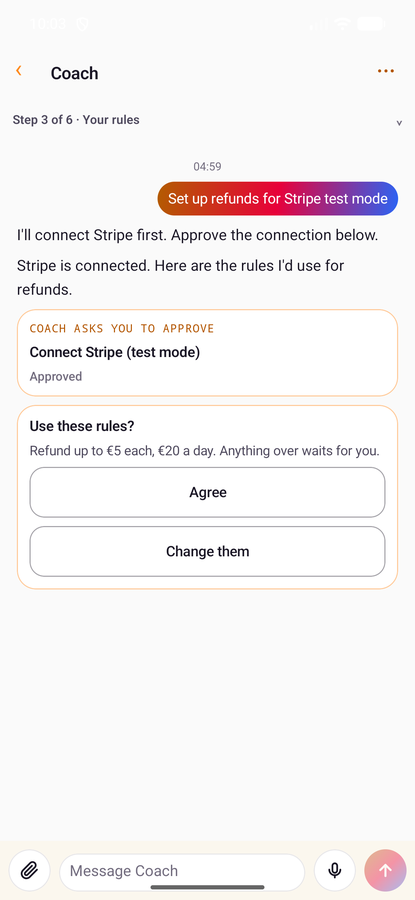
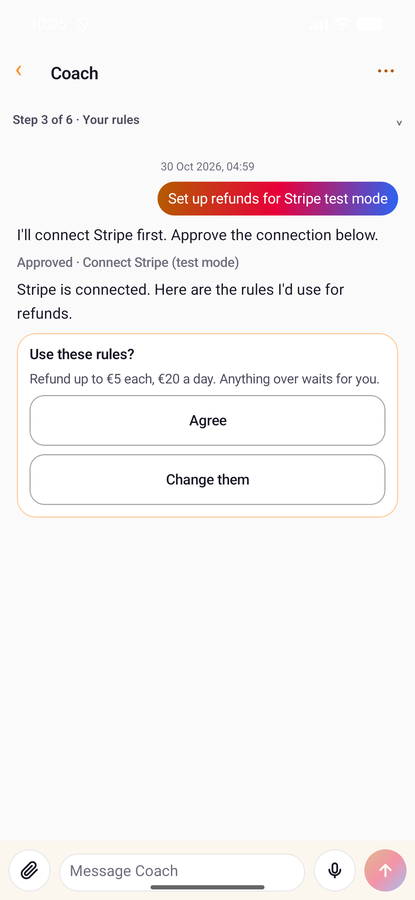
Android: an answered Coach card says what it was, at its own time
The owner's report on Coach's chat, phone check on v11:
- An answered approval read only "Approved" under "Coach asks you to
  approve": four in a row said nothing about what was approved. It now
  keeps one line, "Approved · Connect Stripe": Coach's title for the
  card, else planque's words for the connection, else the draft's Card,
  else its service.
- Answered cards sat below Coach's reply, not where they happened. A
  card waiting for the owner still comes after what Coach wrote with it;
  once answered, it goes back to its own time in the thread.

diff --git a/android/app/src/test/kotlin/bot/tafs/app/CoachTest.kt b/android/app/src/test/kotlin/bot/tafs/app/CoachTest.kt
@@ -61,8 +61,8 @@ class CoachTest {
   private fun msg(from: String, text: String, at: String, session: String = "s1") =
     """{"at":"$at","from":"$from","text":${kotlinx.serialization.json.JsonPrimitive(text)},"session":"$session"}"""
 
-  private fun shown(component: String, at: String, session: String = "s1", run: String = "r1") =
-    """{"at":"$at","session":"$session","run":"$run","component":$component}"""
+  private fun shown(component: String, at: String, session: String = "s1", run: String = "r1", answer: String? = null) =
+    """{"at":"$at","session":"$session","run":"$run","component":$component${answer?.let { ""","answer":$it""" } ?: ""}}"""
 
   private fun thread(messages: List<String>, components: List<String> = emptyList()) =
     """{"messages":[${messages.joinToString(",")}],"components":[${components.joinToString(",")}]}"""
@@ -195,6 +195,28 @@ class CoachTest {
     ))
     val kinds = m.state.value.chatItems(COACH_CHAT).map { if (it is ChatItem.Card) "card" else (it as ChatItem.Message).message.text }
     assertEquals(listOf("hello", "Which limit?", "card"), kinds)
+  }
+
+  @Test fun anAnsweredCardGoesBackToItsOwnTimeInLine() = runTest {
+    // The same card, answered: it sits where it happened, before what Coach wrote after it, not under the reply.
+    val m = coach(thread(
+      listOf(msg("taf", "Which limit?", "2026-10-28T08:00:05Z"), msg("owner", "hello", "2026-10-28T07:59:00Z")),
+      listOf(shown(confirm, "2026-10-28T08:00:01Z", answer = """{"state":"answered","words":"100 a refund"}""")),
+    ))
+    val kinds = m.state.value.chatItems(COACH_CHAT).map { if (it is ChatItem.Card) "card" else (it as ChatItem.Message).message.text }
+    assertEquals(listOf("hello", "card", "Which limit?"), kinds)
+  }
+
+  @Test fun anAnsweredApprovalSaysInOneLineWhatWasApproved() {
+    fun card(json: String) = KiffClient.json.decodeFromString<SetupComponent>(json)
+    // Coach's title for it first; else planque's words for the connection; else the draft's Card; else its service.
+    assertEquals("Approved · Connect Stripe", CoachWords.answeredApproval("Approved", card(approval), "Read your Stripe charges", null))
+    val untitled = card("""{"type":"approval","id":"a2","grant":"g2","service":"mcp.stripe.com"}""")
+    assertEquals("Approved · Read your Stripe charges", CoachWords.answeredApproval("Approved", untitled, "Read your Stripe charges", "Refunds"))
+    assertEquals("Approved · Refunds' Card", CoachWords.answeredApproval("Approved", untitled, null, "Refunds"))
+    assertEquals("Approved · Coach's Card", CoachWords.answeredApproval("Approved", untitled, null, "Coach"))
+    assertEquals("Declined · Connect mcp.stripe.com", CoachWords.answeredApproval("Declined", untitled, null, null))
+    assertEquals("Approved", CoachWords.answeredApproval("Approved", card("""{"type":"approval","id":"a3"}"""), null, null))
   }
 
   @Test fun aNoticeKeepsItsOwnTimeAndAnOwnersAnswerBetweenSplitsTheWords() = runTest {

diff --git a/android/app/src/main/kotlin/bot/tafs/app/model/CoachWords.kt b/android/app/src/main/kotlin/bot/tafs/app/model/CoachWords.kt
@@ -229,6 +229,18 @@ object CoachWords {
 
   const val ANSWERING = "Sending your answer…"
 
+  /**
+   * An answered approval, in one line: the answer, then what it was ("Approved · Connect Stripe"). What it was is Coach's
+   * title for the card, else planque's words for the connection, else KIFF's name for the draft's Card, else its service.
+   */
+  fun answeredApproval(answer: String, c: SetupComponent, grantText: String?, draftLabel: String?): String {
+    val what = c.title?.takeIf { it.isNotBlank() }
+      ?: grantText?.takeIf { it.isNotBlank() }
+      ?: draftLabel?.takeIf { it.isNotBlank() }?.let { (if (it.endsWith("s")) "$it'" else "$it's") + " Card" }
+      ?: c.service?.let { "Connect $it" }
+    return if (what == null) answer else "$answer · $what"
+  }
+
   /** Taken by tafs cloud, before the thread shows it in kiff/agents' words. */
   const val TAKEN = "Answered."
 
@@ -251,13 +263,13 @@ object CoachWords {
   fun plan(components: List<ShownComponent>): ShownComponent? = components.lastOrNull { it.component.type == "steps" }
 
   /**
-   * The thread in order, the plan left out. As it happened, with one exception: a card that asks the owner to act comes after
-   * what Coach wrote with it, so its words lead to the card: Coach's messages in the same session after the card, up to the
-   * owner's next message.
+   * The thread in order, the plan left out. As it happened, with one exception: a card that waits for the owner to act comes
+   * after what Coach wrote with it, so its words lead to the card: Coach's messages in the same session after the card, up to
+   * the owner's next message. Once answered, it goes back to its own time, in line with what Coach said around it.
    */
   fun items(messages: List<ChatMessage>, components: List<ShownComponent>): List<ChatItem> {
     fun placedAt(c: ShownComponent): java.time.Instant {
-      if (c.component.type !in ASKING) return c.firstAt
+      if (c.component.type !in ASKING || c.answer != null) return c.firstAt
       val nextOwner = messages.firstOrNull { it.from == ChatMessage.From.owner && it.at > c.firstAt }?.at
       val after = messages.filter { it.from == ChatMessage.From.taf && it.session == c.session && it.at >= c.firstAt && (nextOwner == null || it.at < nextOwner) }
       return after.lastOrNull()?.at ?: c.firstAt

diff --git a/android/app/src/main/kotlin/bot/tafs/app/views/CoachViews.kt b/android/app/src/main/kotlin/bot/tafs/app/views/CoachViews.kt
@@ -239,12 +239,16 @@ private fun ApprovalCard(c: SetupComponent, state: AppState, answered: String?, 
   val draft = c.draft?.let { state.setupDrafts[it] }
   val busy = state.connecting != null
   var details by remember { mutableStateOf(false) }
+  // Answered, it keeps one line saying what it was: several in a row each say what was approved.
+  if (answered != null) {
+    Text(CoachWords.answeredApproval(answered, c, grant?.text, draft?.label), style = scaled(14, FontWeight.Medium, Theme.dim))
+    return
+  }
   Panel(stroke = Theme.amber.copy(alpha = 0.45f)) {
     Eyebrow("Coach asks you to approve", Theme.amberText)
     // A grant its vendor signed out reads as planque says it ("Signed out by Stripe · sign in again"), not as Coach titled it.
     (grant?.takeIf { it.needsReconnect }?.statusWords ?: c.title)?.let { Text(it, style = scaled(15, FontWeight.SemiBold, Theme.ink)) }
     when {
-      answered != null -> Text(answered, style = scaled(13, FontWeight.Medium, Theme.dim))
       state.approvalKeyLost -> ApprovalKeyLine()
       !state.planqueReady -> Text(CoachWords.NOT_CONNECTABLE, style = scaled(14, color = Theme.soft))
       grant == null -> Text("Reading what it asks for…", style = scaled(14, color = Theme.soft))

diff --git a/android/app/src/androidTest/kotlin/bot/tafs/app/CoachScreenTest.kt b/android/app/src/androidTest/kotlin/bot/tafs/app/CoachScreenTest.kt
@@ -93,7 +93,7 @@ class CoachScreenTest {
     rule.onNodeWithText("Coach").assertIsDisplayed()
     rule.onNodeWithText("Step 3 of 6 · Your rules").assertIsDisplayed()
     // Answered: kiff/agents' word, and no buttons left on it.
-    rule.onNodeWithText("Approved").assertIsDisplayed()
+    rule.onNodeWithText("Approved · Connect Stripe (test mode)").assertIsDisplayed()
     hold()
   }
 

diff --git a/docs/chat.md b/docs/chat.md
@@ -215,6 +215,11 @@ run pauses on it, and the answer comes back to the run as data, never as text in
   stopped waiting with no answer. Each card draws its answered state from this alone, in
   kiff/agents' words (Android: `CoachWords.answered`); the app keeps no answer of its own. Words written instead also show as the owner's message,
   with `answers` naming the card, so they never vanish from the thread.
+- On Android, an answered approval keeps one line saying what it was, "Approved · Connect
+  Stripe" (`CoachWords.answeredApproval`): Coach's title for the card, else planque's words for
+  the connection, else the draft's Card, else its service. A card waiting for the owner sits
+  after what Coach wrote with it, so the open question is at the end; once answered, it goes
+  back to its own time in the thread (`CoachWords.items`).
 - The app's earlier form, a message `[<type> <id>] <answer>` from the person's own app, is
   still taken as the card's answer when that card waits. Any other text, a door's message, or
   a card that doesn't wait goes as a message. This form goes one release after the app build
